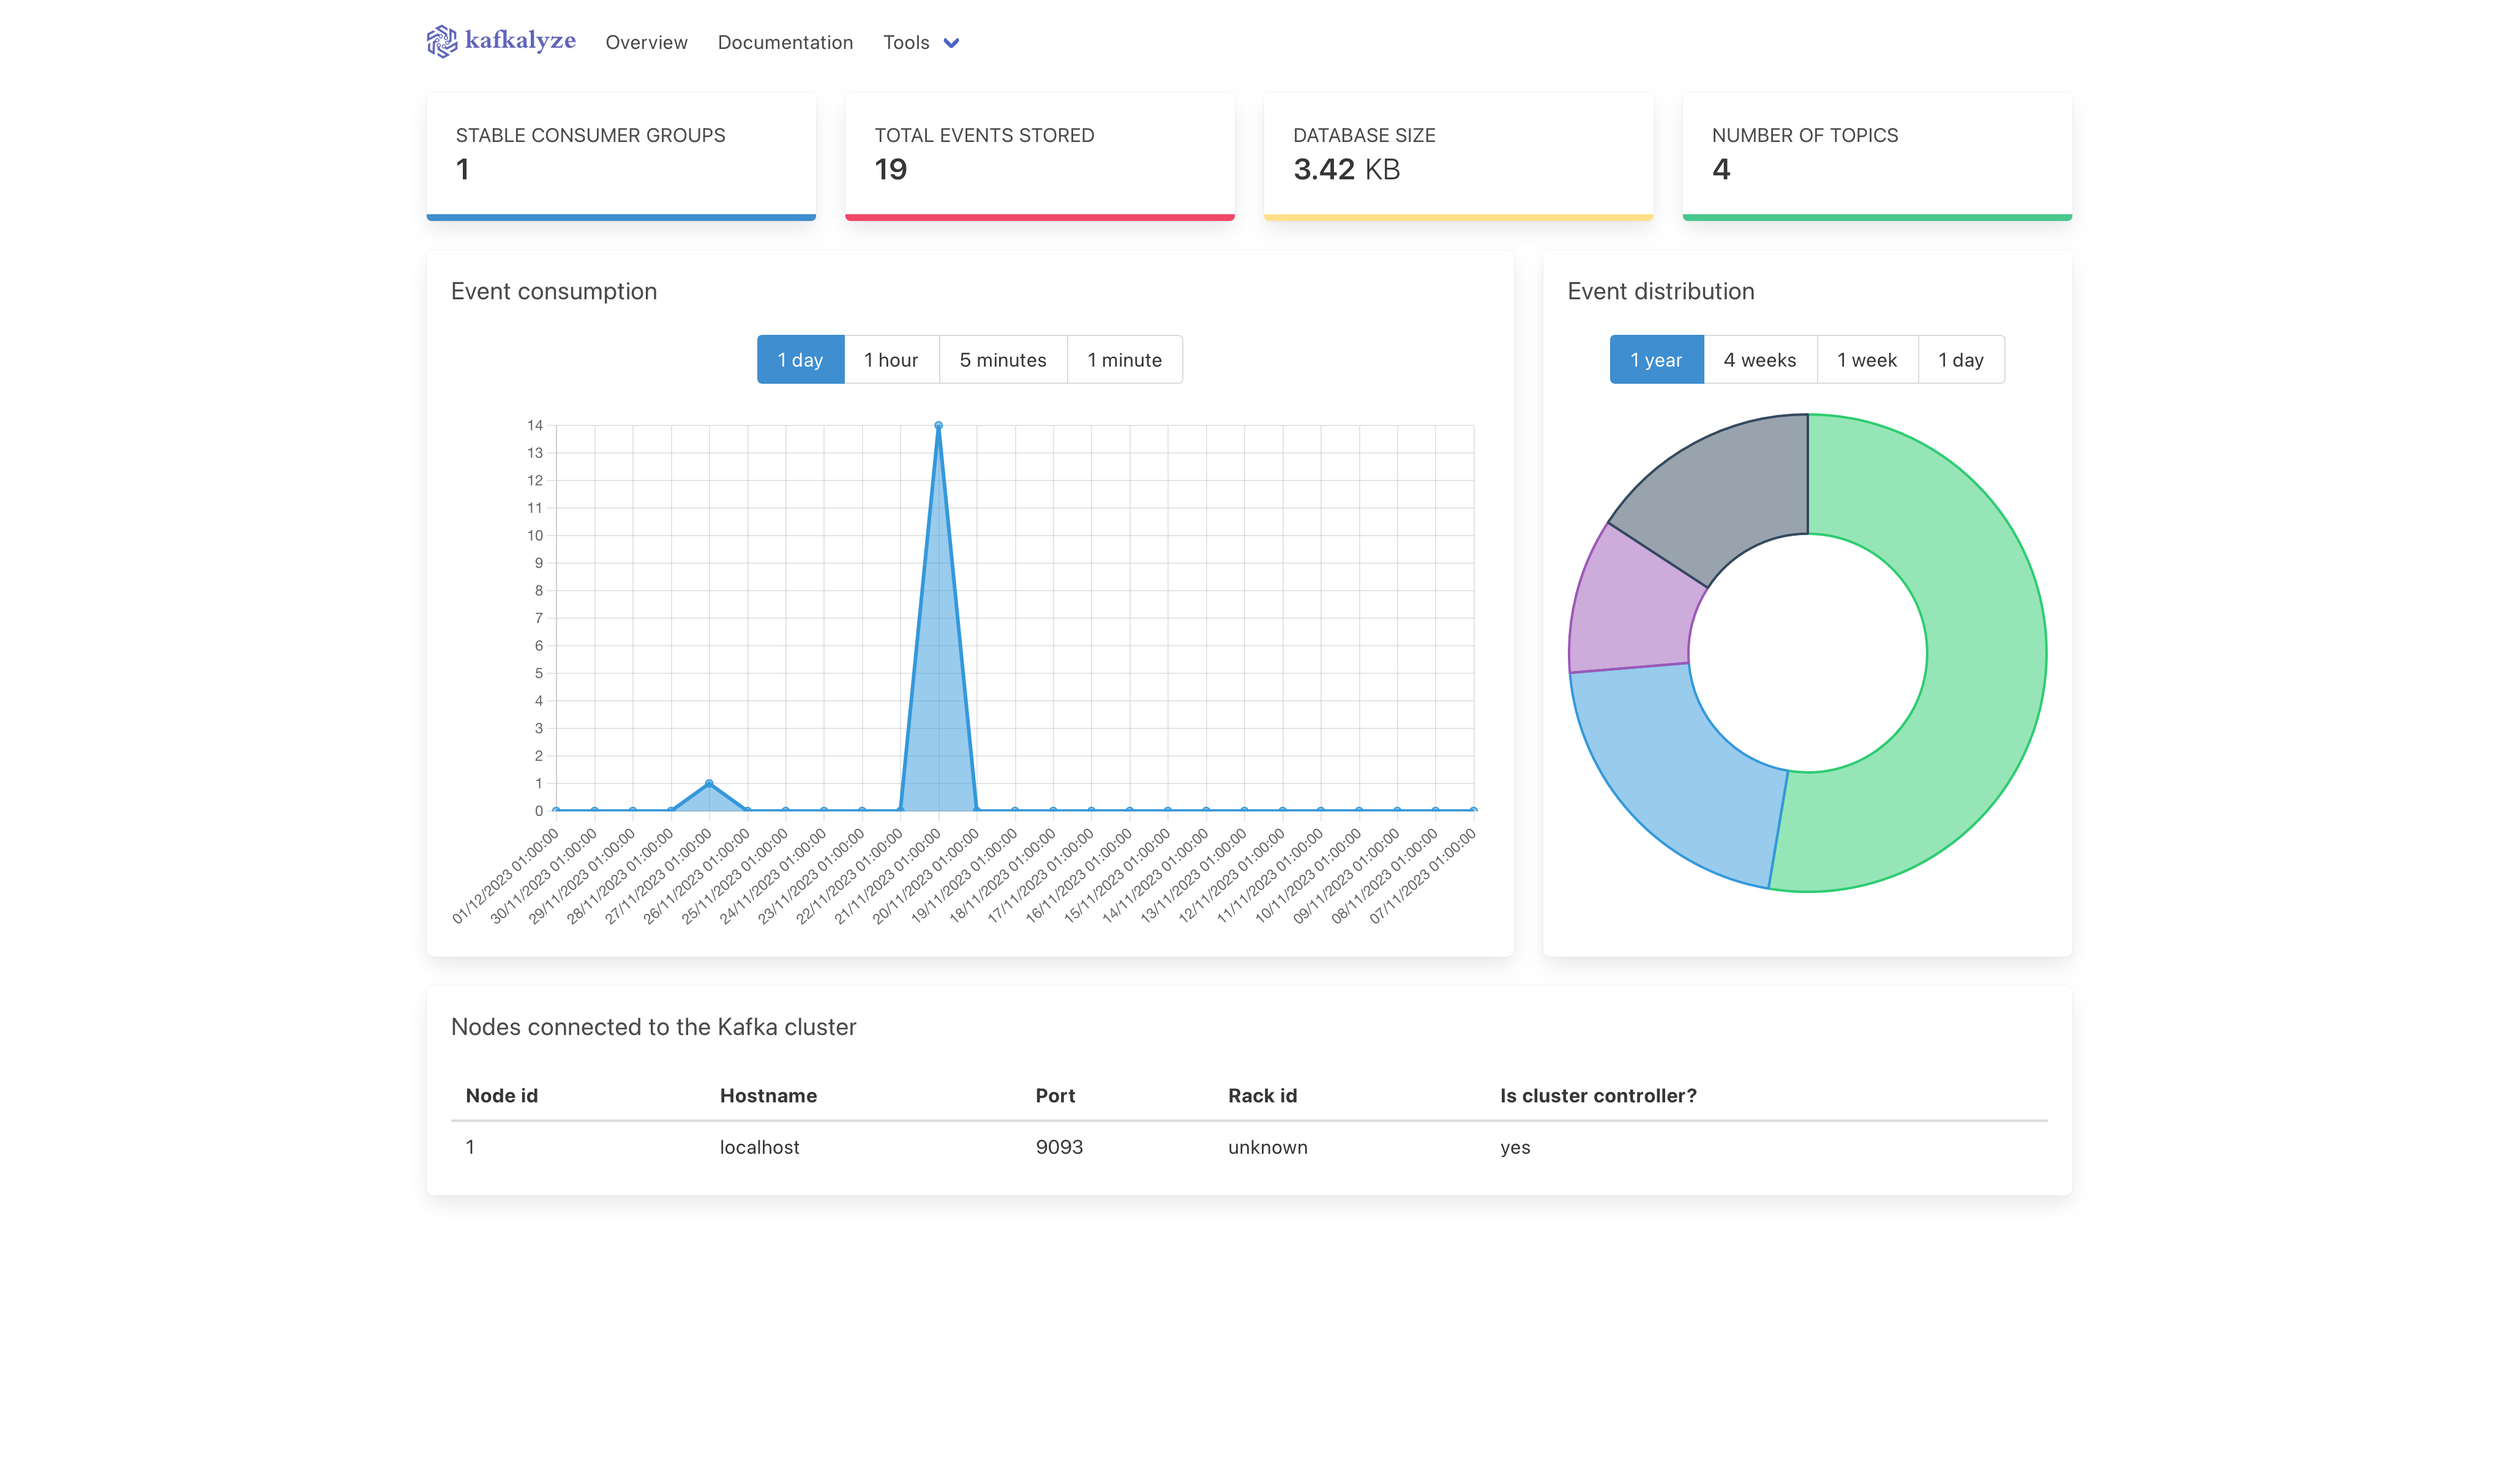
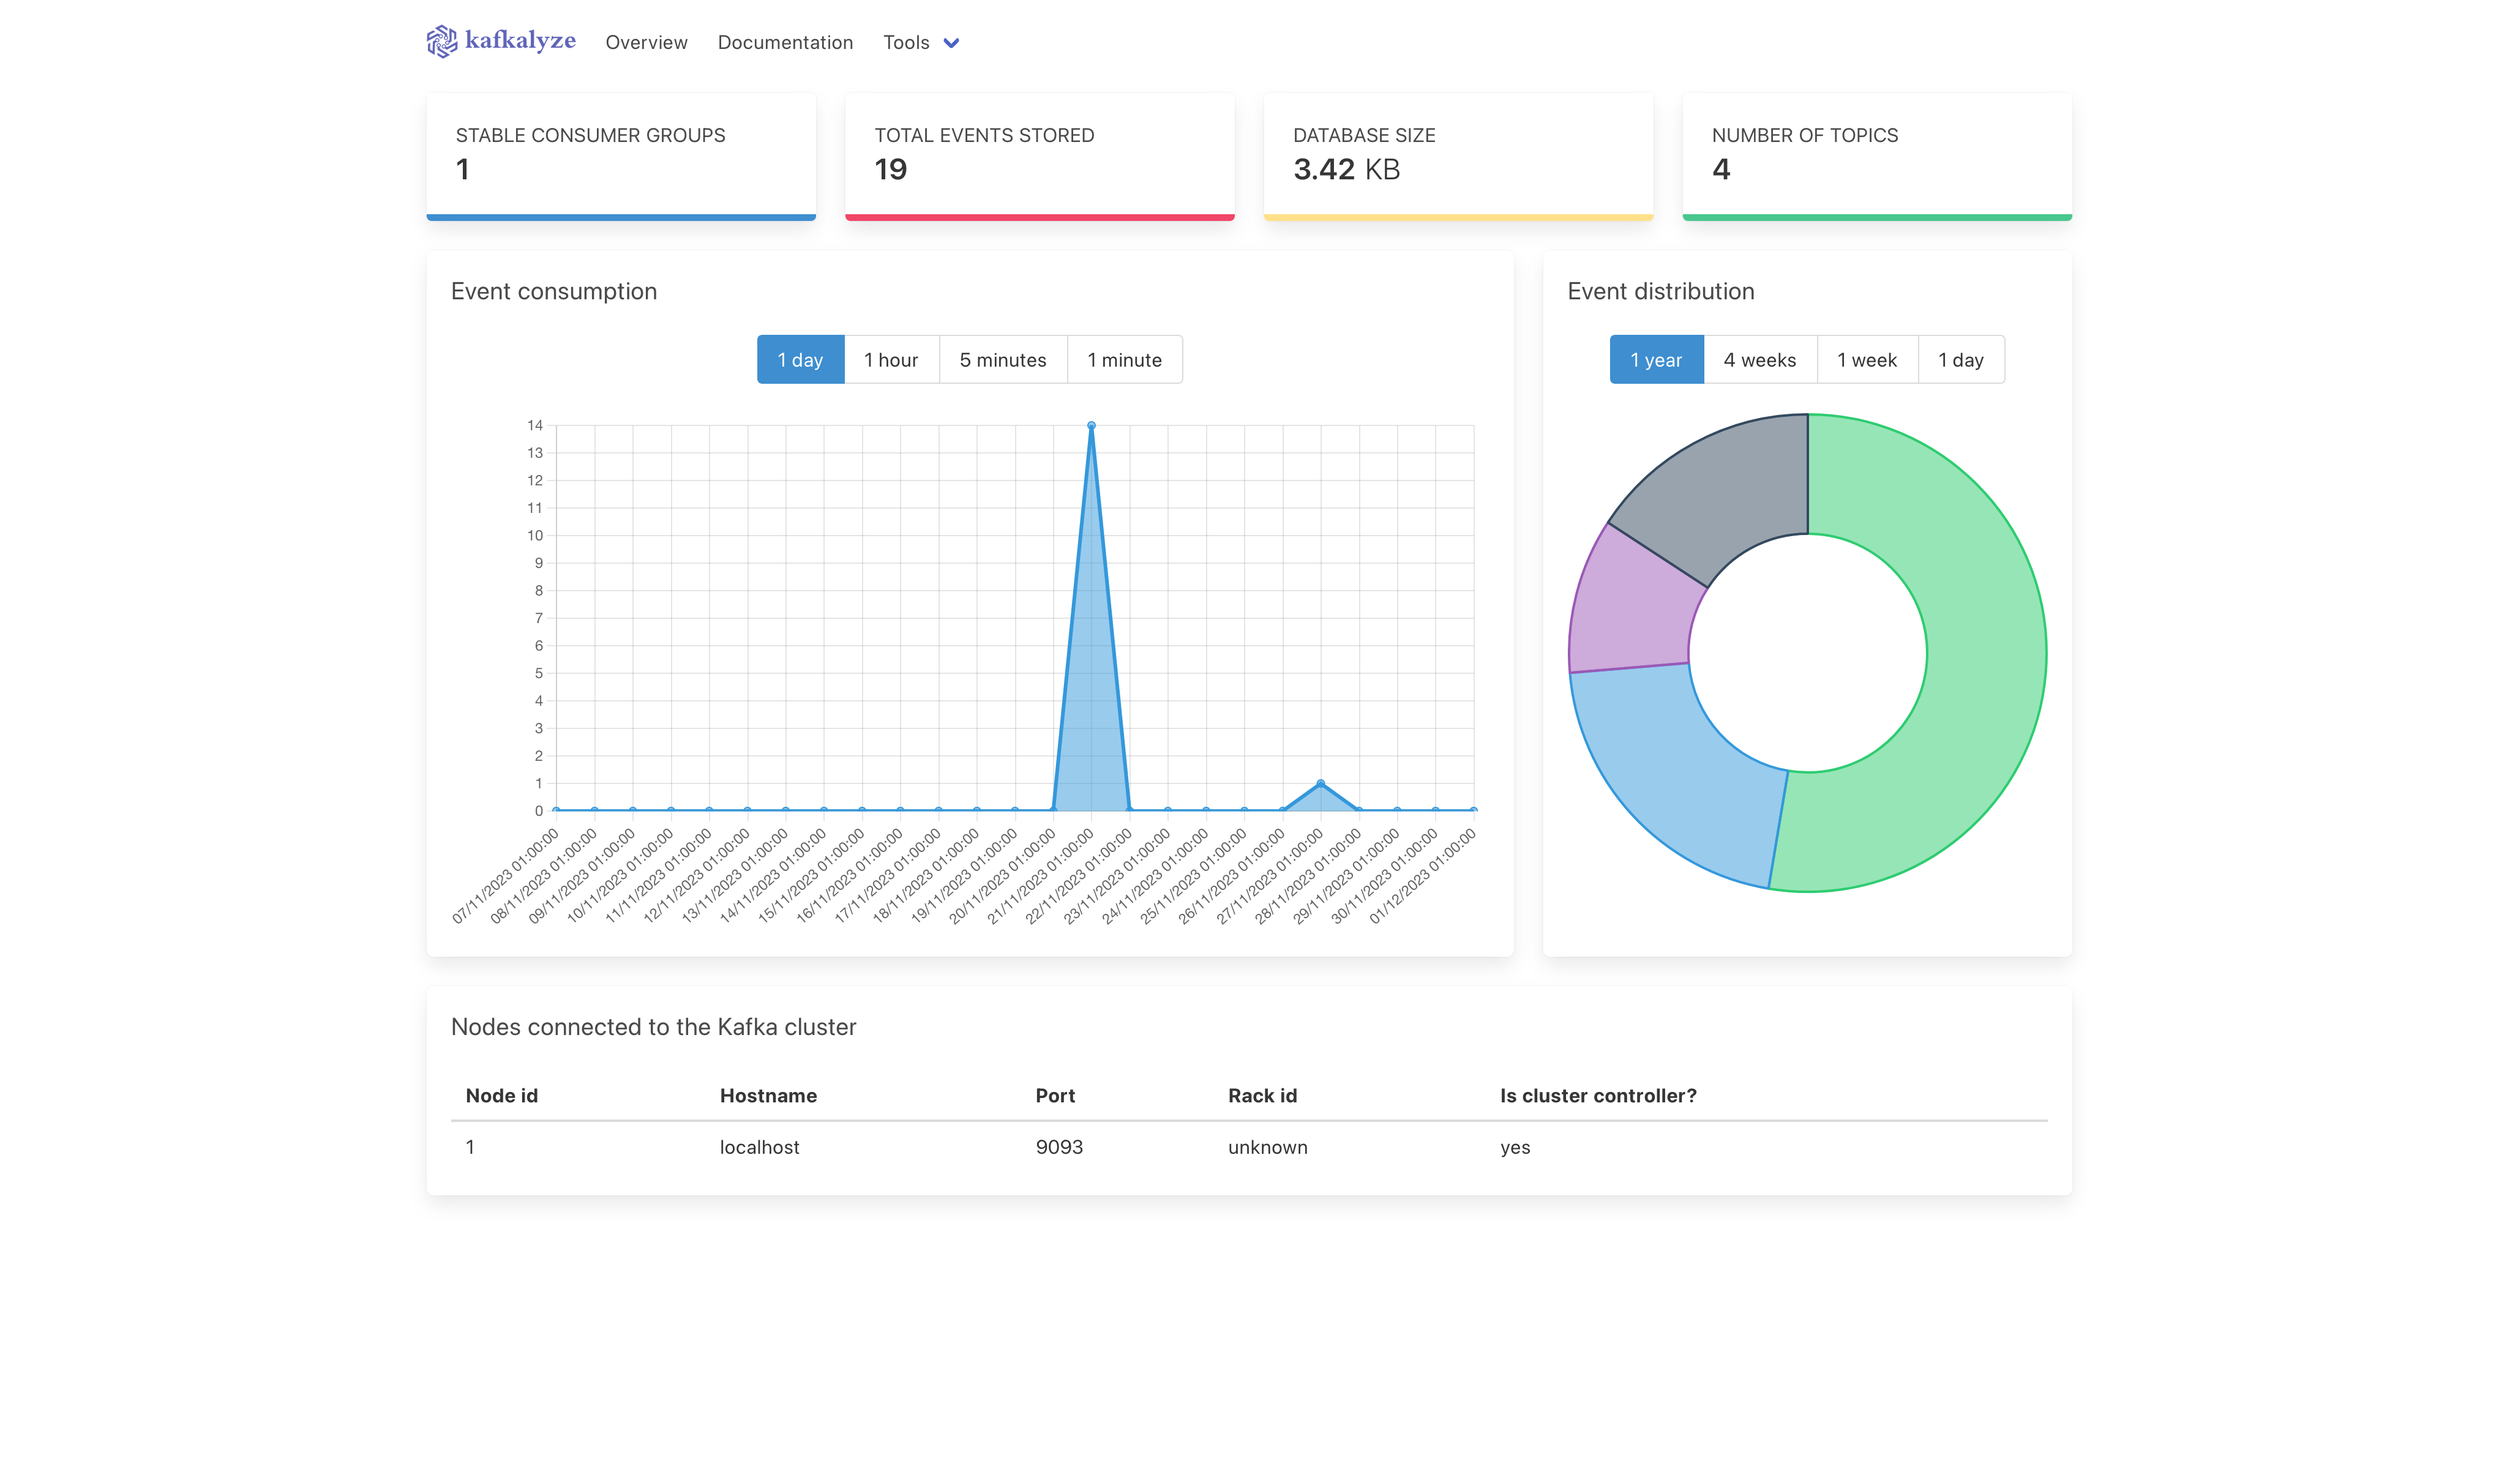
fix: reverse event consumption graph so it is displayed in chronological order instead

Changed region(s): [[0.3422, 0.3125, 0.4667, 0.5625], [0.4978, 0.5312, 0.56, 0.5625], [0.2489, 0.5312, 0.3111, 0.5625]]

diff --git a/ui/src/components/tools/overview/EventConsumptionChart.jsx b/ui/src/components/tools/overview/EventConsumptionChart.jsx
@@ -25,9 +25,21 @@ export const EventConsumptionChart = ({ wrapperClassName, intervalMs }) => {
             Date.now(),
             TIME_PERIODS[timePeriod],
             MAX_NUM_ENTRIES_LINE_CHART,
-            statistics => setConsumption(statistics.eventsConsumedAtTimeframe),
+            statistics => setConsumption(reverseObjectKeysByOrder(statistics.eventsConsumedAtTimeframe)),
             () => setConsumption(undefined),
             () => setConsumption(undefined));
+
+    const reverseObjectKeysByOrder = originalObject => {
+        const keysArray = Object.keys(originalObject);
+        const reversedKeysArray = keysArray.reverse();
+
+        const reversedObject = {};
+        reversedKeysArray.forEach(key => {
+            reversedObject[key] = originalObject[key];
+        });
+
+        return reversedObject;
+    };
 
     return (
         <div className={`box ${wrapperClassName}`}>
